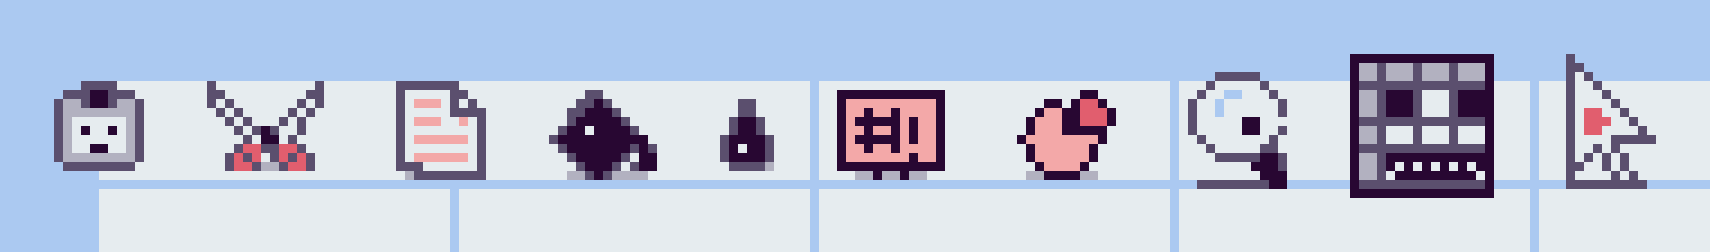
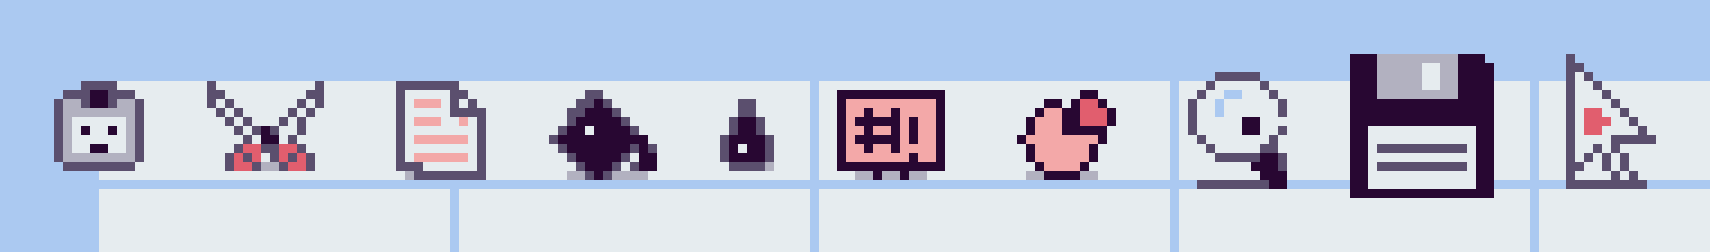
FINANCE: the grin is the floppy disk
Claude-Session: https://claude.ai/code/session_016SZz7dGSMrXe3qFzfhFSJ8

Changed region(s): [[0.7749, 0.1944, 0.8988, 0.75]]

diff --git a/DESIGNDOC.md b/DESIGNDOC.md
@@ -848,7 +848,7 @@ the blob is a quarter note, the bat two beamed quavers, the skull a whole note,
 the two eyes the two clefs and the grin an upright piano grinning with its
 keyboard. On the finance page the crowd is the spreadsheet's own toolbar: paste,
 cut, copy, the fill bucket and its drops, an error cell, a pie chart, find, the
-sheet itself and the cursor. It is a **skin and nothing else**, which is what keeps it on the right side of the paragraph above: every number the crowd is made of
+save disk and the cursor. It is a **skin and nothing else**, which is what keeps it on the right side of the paragraph above: every number the crowd is made of
 stays on the row in `Enemy.types`, so a blob on the music page is the same 4hp
 walking at the same 20px/s, and a build learned on one page reads on every other.
 Only the drawing changes. Four things hold it together:
